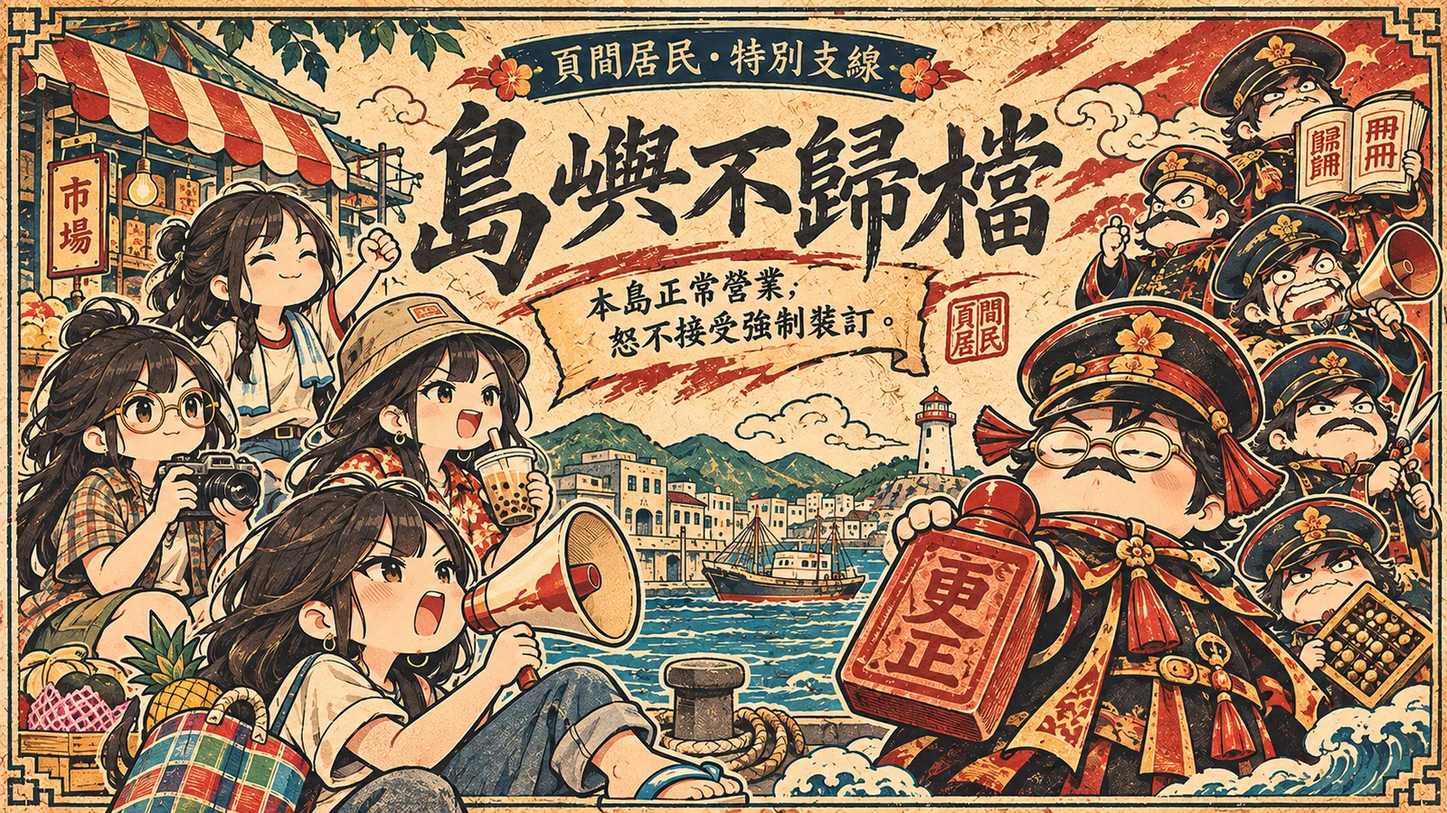
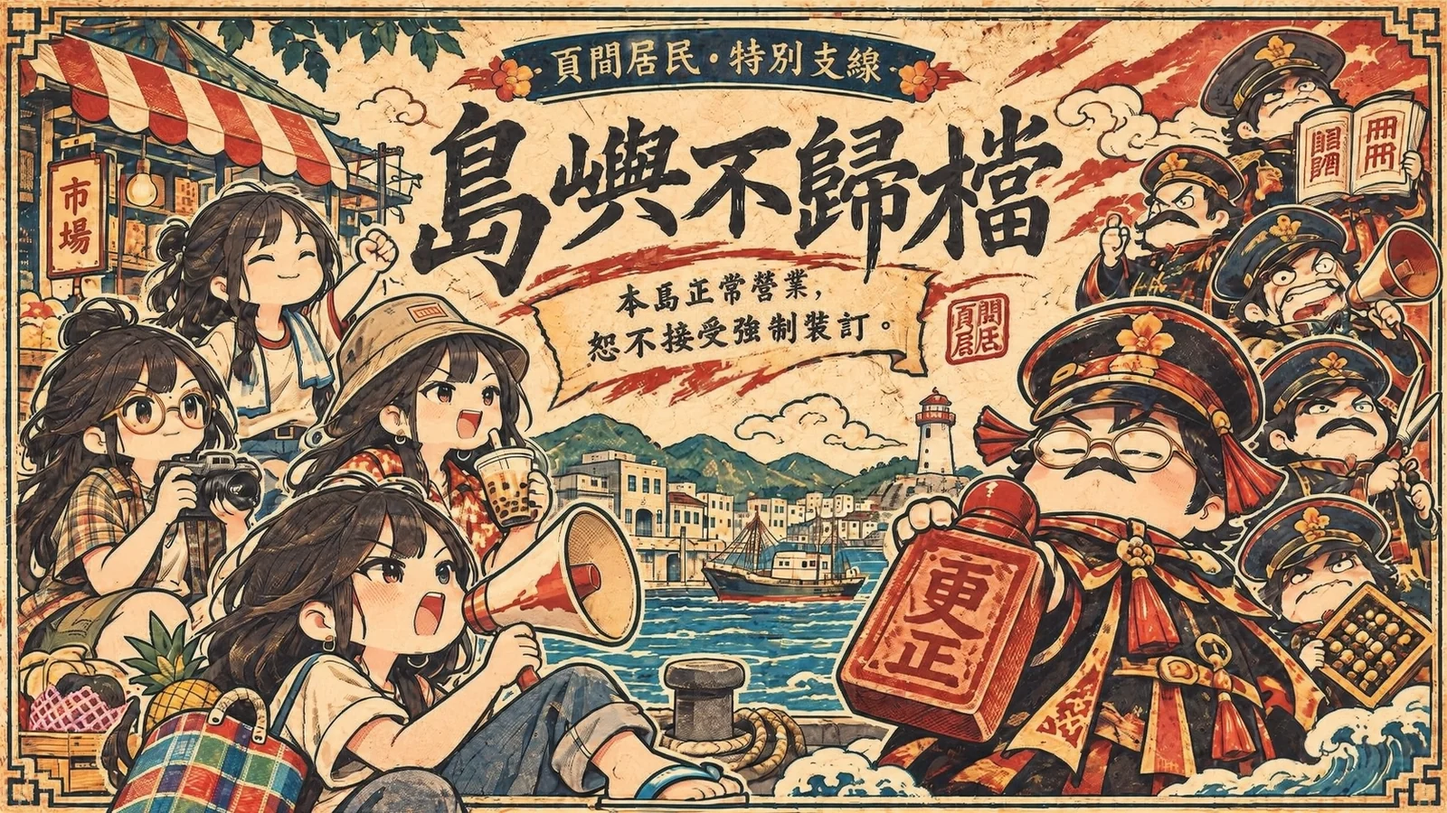
No.118 島嶼守望・小湘：島嶼不歸檔通關紀念蛋、文案暫稿；主視覺換新版（測試服，v2026.11.27f）
Claude-Session: https://claude.ai/code/session_01NLB8StViYpMqeiNYXRAFnQ

diff --git a/js/intros.js b/js/intros.js
@@ -56,6 +56,7 @@ export const INTROS = {
   '106': "究級歐皇小湘有一個小小的困擾。她始終不明白。為什麼大家每次看到她孵蛋，都會露出那麼誇張的表情。「……？」「又是新的呀。」她看著眼前剛孵出的小湘。輕輕點頭。「歡迎妳。」旁邊的中級非酋小湘已經快哭了。「……又？」究級歐皇小湘歪了歪頭。「嗯？」「……妳又抽到新的？」「是呀。」「…………」中級非酋小湘摀住臉。「嗚嗚嗚嗚嗚嗚！！！！」究級歐皇小湘嚇了一跳。「欸？」「妳怎麼哭了？！」她急忙遞出手帕。「是不是哪裡不舒服？」中級非酋小湘吸了吸鼻子。「……不是啦。」「……只是我已經好久沒抽到新的了。」究級歐皇小湘沉默。「……原來如此。」她低頭看看手裡的新角色卡。想了好久。最後小心翼翼地問：「那……妳為什麼不直接抽新的呢？」「…………」整個培養室突然安靜下來。普通非酋小湘停止擦蛋。中級非酋小湘停止哭泣。就連究級非酋小湘。都慢慢放下了手裡的茶杯。中級非酋小湘終於爆發。「因為我做不到啊啊啊啊啊啊啊！！！！！！！」究級歐皇小湘嚇得往後退了一步。「欸？！」「什麼？！」「原來不能自己決定嗎？！」究級非酋小湘端起茶杯。露出慈祥的笑容。「……呵呵。」「年輕人。」「妳還有很多事情需要學習呢。」究級歐皇小湘非常震驚。她開始認真研究孵蛋規則。發現自己一直以來遇到的結果。其實並不是人人都有。她終於明白。原來自己的幸運，不是每個人的日常。從那天開始。究級歐皇小湘變得更加溫柔。如果有人抽到新的角色。她會一起慶祝。如果有人又抽到重複。她也不會再問：「為什麼不直接抽新的？」而是會認真地聽對方說話。某天晚上。她獨自坐在培養皿旁邊。手裡捧著一顆蛋。這次，她沒有提前猜測結果。只是安安靜靜地等待。蛋殼裂開。一張熟悉的臉出現了。「…………」究級歐皇小湘睜大眼睛。「……欸？」她翻開圖鑑。確認了一次。又確認了一次。「……重複的？」小恐龍緊張地看著她。下一秒。「哇啊啊啊啊啊啊啊！！！！！！」「我終於抽到重複的了耶！！！！！！」她開心得跳了起來。小恐龍完全傻住。究級歐皇小湘捧著重複卡。滿眼感動。「原來這就是大家說的感覺呀……！」「好新鮮喔！」就在此時。究級非酋小湘緩緩走進房間。看見她的模樣。沉默了。她放下茶杯。露出一個非常溫柔的微笑。「……呵呵。」「很好呢。」「看來，妳的修行才剛剛開始。」據說，那是究級非酋小湘第一次想把茶杯捏碎。",
   '107': "府城燈籠小湘最近有一件非常重要的事情。她要畫一盞燈籠。而且不是普通的燈籠。是要送給某個重要之人的燈籠。「嘿嘿！」「這次一定要畫得超級漂亮！！」她準備好畫筆。把燈籠放在桌上。認真思考。第一筆。她畫了一顆星星。「嗯嗯！很漂亮！」第二筆。她畫了一朵花。「嘿嘿！好可愛！」第三筆。她準備畫一顆愛心。結果——「……欸？」畫筆滑了一下。原本應該圓圓的愛心，突然變得有點歪。「…………」小湘盯著燈籠。沉默了三秒。「……嗚。」「畫歪了啦！！！！」她非常沮喪。甚至開始考慮要不要重新畫一盞。就在這時，外面傳來熱鬧的聲音。原來是大家正準備把彩繪好的燈籠掛起來。小湘抱著自己的燈籠走出去。一抬頭。她愣住了。好多燈籠。好多好多不同的顏色。有的畫著花朵。有的畫著小動物。有的寫著祝福。還有一些線條歪歪的，甚至看不太出來畫的是什麼。但它們全部掛在一起。卻漂亮得不得了。小湘睜大眼睛。「……哇。」她沿著街道慢慢往前走。看見一盞畫著貓咪的燈籠。「欸！這個好可愛！」又看見一盞畫著整桌飯菜的燈籠。「哇啊！畫這個的人一定很喜歡吃飯！」走到轉角。還有一盞燈籠，上面只寫著四個字。「平安就好。」小湘停了下來。看了很久。她突然發現。原來每個人想留下的東西，都不太一樣。有人想紀念開心的事情。有人想記得重要的人。也有人只是希望，接下來的日子可以平平安安。她低頭看看自己的燈籠。那顆歪歪的愛心，突然沒有那麼討厭了。「……嘿嘿。」「原來這樣也可以呀。」於是，小湘回到桌前。她沒有把那顆愛心塗掉。反而在旁邊多畫了兩顆小星星。然後小心翼翼地寫下一句話：「希望你走過的每一段路，都能遇見喜歡的風景。」寫完以後。她滿意地點點頭。「完成！！！！」到了晚上。燈籠一盞一盞亮了起來。暖黃色的光，輕輕照在老街的牆面上。晚風吹過。燈籠慢慢搖晃。小湘站在下面。看著自己那盞小小的燈。她突然笑得眼睛彎彎。「……好漂亮。」後來，那個重要的人終於來了。小湘立刻跑過去。「欸欸欸！！」「快來快來！」「我有東西要給你看！」她牽著對方走到燈籠下面。滿臉期待。「你看！」「這盞是我畫的！」「……雖然那顆愛心有一點歪啦。」她不好意思地摸摸臉頰。「可是我真的畫得很認真喔。」對方抬起頭。仔細看著那盞燈籠。然後笑了。「很漂亮。」小湘愣了一下。「……真的嗎？」對方點頭。「嗯，真的。」她安靜了好一會兒。突然紅著臉笑起來。「……嘿嘿。」「那就好。」那天晚上，小湘沒有再擔心自己的燈籠畫得夠不夠完美。因為她終於明白。真正想送出去的，從來就不是一幅完美的畫。而是有人願意把心意，認認真真地留在一盞燈裡。據說，從那天開始。府城燈籠小湘每天都會檢查自己的小燈籠。偶爾擦擦灰塵。偶爾調整掛繩。如果有人問她：「為什麼那麼寶貝它呀？」小湘就會笑得很開心。「嘿嘿！」「因為有人說它很漂亮呀♡」",
   '108': "奇境森林裡，住著一隻非常奇怪的小湘。她有一對紫色條紋的貓耳朵。一條總是慢悠悠晃動的尾巴。還有一個彎得像月亮的笑容。但最奇怪的地方是——她會消失。不是躲起來。也不是跑走。而是從尾巴開始。一點一點。慢慢變得透明。最後，只剩下一抹笑容。「……呵呵。」森林裡的小湘們經常被她嚇到。「哇啊啊啊！！！！」「妳怎麼突然出現啦！！」柴郡貓小湘總是歪著頭。「哎呀？」「可是我剛剛明明就在這裡呀。」「只是你沒有看見我嘛♡」她很喜歡待在樹枝上。尤其是那些可以看見整片森林的高處。因為從那裡，她可以看見很多事情。誰走錯了路。誰偷偷藏起點心。誰明明很想找朋友，卻又不好意思開口。她全部都知道。但她不一定會說。有一天，一隻小湘在森林裡迷路了。她抱著地圖。急得快要哭出來。「嗚嗚嗚……」「我到底要往哪裡走啦……」這時，頭頂傳來一聲輕笑。迷路的小湘抬起頭。看見樹枝上坐著柴郡貓小湘。「啊！」「妳知道出口在哪裡嗎？！」柴郡貓小湘眨眨眼睛。「知道呀。」迷路的小湘眼睛一亮。「真的？！」「那快點告訴我！」柴郡貓小湘卻沒有立刻回答。她只是輕輕晃動尾巴。「可是……」「你想去哪裡呢？」迷路的小湘愣住。「欸？」「我、我想出去呀！」「出去以後呢？」「……出去以後？」「嗯。」「你是想回家，還是想去找某個人？」「又或者……」柴郡貓小湘微微一笑。「你其實只是害怕自己正在迷路呢？」迷路的小湘沉默了。她低頭看看手裡的地圖。想了很久。最後小聲說：「……我想回家。」柴郡貓小湘的耳朵輕輕動了一下。「原來如此。」她從樹枝上跳下來。落地時，幾乎沒有發出聲音。「那就好辦啦。」她伸出手。指向森林深處一條不起眼的小路。「往那裡走。」「走過有紅色蘑菇的樹，再沿著溪流往前。」「你就會看見回家的路了。」迷路的小湘非常開心。「謝謝妳！！！！」她立刻往前跑。可是跑了幾步。又停了下來。「……欸？」「那妳呢？」柴郡貓小湘歪頭。「我？」「妳不跟我一起走嗎？」柴郡貓小湘笑了。「我為什麼要跟你一起走呢？」「因為……」迷路的小湘想了想。「因為我還是有一點害怕嘛。」柴郡貓小湘沒有回答。她的尾巴開始變得透明。接著是腳。身體。耳朵。最後只剩下一抹笑容。「……那就自己走走看呀。」笑容也慢慢消失了。迷路的小湘愣在原地。「……嗚。」「真的走掉了喔？」她有一點失落。但還是鼓起勇氣，沿著那條小路往前。走了一段時間。森林變得安靜。她開始有點緊張。「……應該是這邊吧？」突然。頭頂傳來熟悉的聲音。「左邊喔。」迷路的小湘嚇了一跳。「哇啊啊啊！！！！」她抬起頭。卻什麼都沒有看見。只有一抹彎彎的笑容。浮在樹枝旁邊。「……妳不是走了嗎？！」柴郡貓小湘輕輕笑了。「我是說過，不跟你一起走呀。」「可是我沒有說……」「我不會偷偷來看看你嘛♡」迷路的小湘愣了一下。然後笑了。「……原來妳一直有跟著我喔。」「哎呀。」「被發現了呢。」柴郡貓小湘的身影慢慢浮現。她坐在樹枝上。尾巴輕輕晃動。「不過，接下來的路，你已經知道怎麼走了吧？」迷路的小湘點點頭。「嗯！」「我知道了！」她往前跑了幾步。突然又回頭。「柴郡貓小湘！」「謝謝妳！」柴郡貓小湘只是微微一笑。「不客氣呀。」然後。她再次消失了。後來，森林裡開始流傳一個傳說。據說，柴郡貓小湘總是會在別人迷路時出現。她不會替你決定方向。也不會直接把你送到終點。她只會問：「你想去哪裡呢？」而當你終於知道答案時。她就會悄悄消失。但如果你真的害怕。偶爾抬起頭。或許還能看見樹枝上。有一抹彎彎的笑容。正安靜地陪著你。因為她最擅長的事情是消失。卻也最清楚，什麼時候應該留下。",
+  '118': "赤印帝國的五位將軍走了之後，港口的燈塔又亮了起來。那天傍晚，一個戴著大斗笠的小湘提著燈籠走上碼頭，帽簷插著扶桑花和鳳梨，肩上停著一隻台灣藍鵲。她說她是島嶼守望・小湘，是各縣市小湘一起守住這座島的那份心意變成的。她的帆布袋裡裝著每個縣市的名產，相機裡存著每一條走過的路。她最喜歡做的事，是拉著你的手說：「走，我帶你去看我們的島。」",
   '109': "很久很久以前。當秋風第一次吹過大地時。白虎小湘便已存在。她司掌西方。掌管金戈、肅殺與金屬之氣。也掌管秋收與豐饒。在她最輝煌的年代，人們會在出征前向她祈願。祈求勇氣。祈求勝利。祈求平安歸來。而當田野裡的稻穗轉為金黃，人們也會向她獻上收成。感謝秋日的風。感謝辛勤耕作終於有所回報。那時候，白虎小湘總是驕傲地站在神壇上。「本座可是四象之一！」「金戈所向，秋實所歸！」她的神力像金色的秋風。強大、銳利。又帶著成熟稻穗的香氣。可是後來。人間慢慢改變了。冷兵器逐漸退出歷史。戰爭不再是人們日常祈求勝利的主要場合。昔日的戰鼓聲，被車流與城市的喧囂取代。而氣候變遷，也讓她所熟悉的秋季變得難以捉摸。有些年份，暑熱遲遲不退。有些地方，秋日的涼意來得短暫。她仍然能感受到收穫的喜悅。卻越來越難從舊有的祭祀與祈願中，得到足以維持神格的力量。白虎小湘站在荒廢的神壇前。看著自己逐漸黯淡的護腕。「不過是些許神力流失罷了。」她抬起手。想召喚一陣金色秋風。卻只吹動了腳邊幾片落葉。「…………」她沉默了很久。最後，慢慢放下手。「……本座才沒有失去力量。」「只是……」「只是這個時代，已經不需要本座了吧。」那天晚上。白虎小湘獨自坐在神壇前。尾巴垂在地上。耳朵也沒有平常那麼精神。直到一個奇怪的聲音，從遠處傳來。「啊啊啊啊啊啊！！！！」「逆轉了！！！！」白虎小湘猛地抬頭。「……什麼？！」她循著聲音走進城市。發現一群人正圍著螢幕。有人握緊拳頭。有人緊張得不敢呼吸。有人激動地跳起來。「贏了！！！！」「最後一秒逆轉！！！！」白虎小湘睜大眼睛。「……這是何物？」旁邊的人回答：「電競比賽啊。」「……電、競？」「對啊！剛剛那隊超強，落後那麼多還能翻盤！」白虎小湘看著螢幕。畫面裡沒有真正的刀劍交鋒。也沒有昔日戰場上的生死搏殺。可是她感覺到了。一種久違的力量。那是人們渴望勝利時，所凝聚的意志。是明知可能失敗，仍然不肯放棄的決心。她的耳朵慢慢豎起來。「……有趣。」她又看了一場。接著又一場。從電競到籃球。從田徑到棒球。她發現，這個時代的人們依然渴望勝利。只是他們有了不同的戰場。有人在賽道上超越極限。有人在球場上相信隊友。有人在舞台上迎接挑戰。有人即使失敗，也願意再練習一次。而每當他們展現這份意志時。白虎小湘都能感覺到。自己體內沉睡的金氣，正在微微甦醒。「……原來如此。」她低頭看著自己的雙手。「本座的力量……」「從來不只是刀劍。」後來，她遇見了一位正在準備比賽的選手。那個人練習了很久。卻始終無法突破自己的紀錄。「我是不是根本不適合繼續？」選手沮喪地坐在場邊。白虎小湘站在旁邊。本想像從前一樣，命令對方奮戰到底。卻突然停住。她看見對方磨破的鞋底。看見反覆修改的訓練紀錄。也看見那些沒有人鼓掌的日子。於是她蹲下來。輕輕拍了拍對方的肩膀。「本座問你。」「你真的不想繼續了嗎？」選手沉默片刻。最後搖頭。「……我還想試試看。」白虎小湘笑了。那是她很久沒有露出的、真正燦爛的笑容。「那就去吧！」「本座替你守著！」她伸出手。金色的秋風緩緩升起。不是替選手保證勝利。也不是強行改變比賽結果。而是化作一股溫暖而堅定的力量。讓對方想起自己為何開始。那場比賽，選手沒有得到第一名。卻突破了自己的最佳紀錄。當對方笑著跑向終點時。白虎小湘愣住了。她原以為，只有勝者才會如此歡喜。可那個人明明沒有奪冠。卻笑得比誰都開心。「……原來如此。」她輕輕握緊拳頭。「原來收穫……」「不只有勝利。」那一瞬間。她腰間的稻穗護符亮了起來。金色光芒沿著護腕蔓延。沉睡已久的神力，終於重新甦醒。她突然想起自己另一項幾乎被遺忘的神職。秋收。豐饒。辛勤耕耘以後的成果。原來人們一直都需要她。只是她把自己的目光，困在了過去。從那天開始。白虎小湘重新走進人間。她出現在運動場的看台上。出現在電競比賽的觀眾席。出現在農田收成的季節。也出現在那些為了目標默默努力的人身旁。她不再只聽見「我要贏」。也開始聽見：「我想再進步一點。」「我想完成這件事。」「我希望今年有好收成。」「我想讓自己的努力有所回報。」而那些聲音。逐漸化作新的信仰之力。某天，一個小孩在公園裡認出了她。「欸！」「妳是不是那個很厲害的白虎神獸！」白虎小湘立刻挺起胸膛。「哼！算你有眼光！」小孩興奮地問：「那妳會幫我贏明天的跑步比賽嗎？」白虎小湘沉默片刻。然後蹲下身。「本座不能保證你會贏。」「但你若願意認真跑完……」她伸出小小的虎掌。「本座便會替你喝采。」小孩高興地笑了。「好！！」白虎小湘也忍不住笑起來。「很好！」「那就拿出你的氣勢來！」「本座可是會在終點看著你的！！」說完，她突然意識到自己太興奮了。立刻清清喉嚨。重新擺出高冷的表情。「……咳。」「本座只是履行神職罷了。」但她的尾巴。早已高興得晃個不停。據說，如今的白虎小湘已經不再為失去舊時代的戰場而悲傷。因為她終於明白。真正值得守護的，不是戰爭本身。而是人們在面對挑戰時，仍願意努力向前的勇氣。至於秋季的變化，她也沒有忘記。她開始陪伴人們認識季節、珍惜土地，關心氣候與收成。因為她知道。秋天不只是一場勝利。也是一整年的努力，終於迎來成果的時刻。而只要人間仍有人願意播種、努力、挑戰、收穫。白虎的秋風。便不會真正退場。",
   '110': "禿小湘今天接到一項重要任務。替花魁大人送一盒新做好的點心。「好！！」「保證完成任務！！」她抱著盒子出發。第一條走廊。走錯了。第二條走廊。走到廚房。第三條走廊。竟然走回原地。「…………」「為什麼啦啊啊啊！！！！」小湘急得快哭出來。她明明已經很努力記路了。卻總是弄錯方向。就在這時，番頭新造小湘走了過來。「怎麼還在這裡？」「嗚嗚嗚……我找不到路……」番頭新造小湘沒有責備她。只是拿出一張小紙。替她畫下幾個簡單的記號。「這裡有一盞紅燈籠。」「轉彎後會看見花瓶。」「再往前就是花魁大人的房間。」禿小湘睜大眼睛。「哇！！」「原來可以這樣記！！」她重新出發。這次終於順利送達。花魁小湘接過點心。看見她滿頭大汗的模樣。輕輕笑了。「辛苦了。」禿小湘愣住。「……欸？」「我沒有被罵嗎？」花魁小湘只是摸摸她的頭。「願意學習，便很好。」那天晚上。禿小湘在自己的筆記本上寫下：「今天學會了：不知道的時候，可以問。」據說，從那天起，她仍然經常迷路。只是每次迷路，都會比上一次更快找到方向。",
   '111': "番頭新造小湘有一本非常厚的工作冊。裡面記著月見町每天大大小小的事情。茶水要準備。衣物要整理。客人的安排要確認。宴席結束後，還要清點物品。「……很好。」她滿意地打勾。就在這時。「番頭小湘！！」禿小湘跑了過來。「我把點心送錯房間了啦！！」「…………」番頭新造小湘深吸一口氣。「沒關係。」「我來處理。」過了一會兒。太鼓新造小湘又跑來。「我的鼓棒不見了！！！！」「…………」「我來找。」接著，振袖新造小湘的衣飾需要調整。花魁小湘的宴席時間也臨時更改。番頭新造小湘一路忙到深夜。直到所有燈籠都熄了。她才終於坐下。「……好累。」她翻開工作冊。發現自己今天竟然沒有完成所有事項。「……怎麼會這樣。」她很沮喪。就在這時。禿小湘端著熱茶走來。「番頭姐姐！」「今天的茶是我泡的喔！」太鼓新造小湘也走了過來。「鼓棒我自己找到了！」振袖新造小湘微笑著說：「明天的衣飾，我也可以自己先準備。」花魁小湘則輕輕闔上她的工作冊。「今日辛苦了。」「接下來，便交給我們吧。」番頭新造小湘愣住。「……欸？」她一直以為，自己必須把所有事情都處理好。卻忘了其他人也正在成長。那天晚上。她第一次沒有把所有工作帶回房間。而是在工作冊最後一頁寫下：「信任別人，也是管理的一部分。」據說，從那天起，番頭新造小湘的工作冊仍然很厚。但裡面多了一個新的欄位。叫做——「可以請誰幫忙」。",
@@ -190,6 +191,7 @@ export const MYSTERY_INTROS = {
   '106': "一本幾乎填滿的收藏圖鑑，頁面上貼滿不同角色的照片。旁邊卻單獨放著一張重複卡片，被珍重地收在金色相框裡。底下寫著：『人生第一次抽到重複，好有紀念價值呀♡』",
   '107': "一盞小小的手繪燈籠，畫著三顆星星、一朵花，以及一顆歪歪的愛心。燈籠下方藏著一張祝福小卡，上面寫著：『如果你覺得今天有點暗，也沒關係。我替你留了一盞燈。』據說，畫下這句話的小湘，至今仍會偷偷檢查那顆愛心有沒有歪得太明顯。",
   '108': "森林裡有一條誰也說不清楚通往哪裡的小路。某天，一名旅人抬起頭，看見樹枝上浮著一抹彎月般的笑容。當旅人詢問方向時，那笑容卻只問了一句：『你想去哪裡呢？』據說，當旅人終於找到答案，笑容便會消失。但如果旅人回頭，偶爾還是能看見一條紫色的尾巴，悄悄藏進樹葉裡。",
+  '118': "一盞畫著島嶼輪廓的燈籠，在港口邊靜靜亮著。據說五位將軍都離開以後，提燈的人就會出現。她會帶你去看這座島，因為這一頁，是大家一起寫的。",
   '109': "一座荒廢已久的古老神壇，供奉著掌管金戈與秋收的白色神獸。神壇前的刀劍早已鏽蝕，稻穗護符也失去了光芒。直到某天，神壇旁出現了一張現代競技比賽的門票。有人看見一隻白色虎尾在觀眾席間晃動，當選手完成最後一次衝刺時，沉寂已久的金色秋風，竟再次吹過了人間。",
   '110': "一張畫滿箭頭的小地圖，旁邊放著跑腿用的布包。地圖上有三條走錯的路，最後一條卻畫著大大的愛心。下面寫著：『今天終於送到了！！』",
   '111': "一本密密麻麻的工作冊，每一頁都寫著月見町的日常安排。最後一頁有一行被圈起來的字：『今天的休息時間，不可以取消。』",

diff --git a/js/bond-copy.js b/js/bond-copy.js
@@ -56,6 +56,7 @@ export const BOND_STORIES = {
   '106': "{name}縮在培養皿旁邊，小聲跟你說：我聽說有些人會一直抽到同一隻小湘呢。……可是，既然還有很多沒見過的新朋友，為什麼不直接抽新的就好了呢？……欸？什麼？！原來不能自己決定嗎？！我、我是不是說了很過分的話……！",
   '107': "{name}抱著一疊畫好的燈籠跑來找你，一盞一盞排給你看：我以前都會想，怎麼樣才能畫出最好看的燈籠呢？可是後來發現，大家畫的東西都不一樣耶！有人畫家人、有人畫喜歡的動物，也有人只是畫了好多小花。……嘿嘿，我現在覺得，每一盞都好漂亮！因為那是屬於他們自己的故事呀♡",
   '108': "{name}坐在樹枝上晃著尾巴，低頭問你：如果前面有兩條路，一條很安全，另一條可能有你想找的東西，你會選哪一條呢？……別急著回答我。你可以先想想，自己真正想要的是什麼。畢竟，路可以慢慢走，但如果連目的地都不是自己選的，那不是很可惜嗎？♡",
+  '118': "{name}把相機塞到你手上：「幫我拍一張！要把燈塔、海、還有後面那座山都拍進去喔！」拍完她湊過來看，笑得眼睛都瞇起來：「你看，這裡是不是很漂亮？以前有人說這裡是誰遺失的一頁……可是你看，我們明明一直都在這裡呀。」",
   '109': "{name}盯著你手機上的比賽轉播，雙手抱胸：你說……現在的人們也會為了勝利而拚盡全力？球場、賽道，還有那個叫做『電競』的東西？……本座倒要看看，沒有刀劍的戰場究竟有何值得稱道！……欸？！剛剛那個逆轉是怎麼做到的？！快！再放一次！",
   '110': "{name}抱著一大疊手巾從走廊那頭跑過來，差點撞到你，喘著氣說：我以前以為跑腿很簡單耶！可是後來發現，要記住每個人需要什麼、東西放在哪裡，還要注意時間……原來也是很厲害的本事呀！嘿嘿，我想變成能讓大家放心的小湘♡",
   '111': "{name}把厚厚的工作冊攤在你面前，猶豫了好久才開口：我以前總覺得，重要的事情一定要自己處理才放心。可是後來發現，什麼都自己做，反而容易漏掉細節……所以我最近開始學著分工了。……欸？你願意幫我？真的嗎？！太好了！",
@@ -167,6 +168,7 @@ export const BOND_LINES = {
   '106': { 2: "今天又孵出三隻新的小湘呢。呵呵，真是美好的一天。……嗯？你問我是不是特別幸運？我以前還以為很常見耶。", 4: "我最近跟非酋小湘聊天，才知道原來每次打開蛋，都可能同時帶著期待和失望。以前我不太懂這種心情呢。……所以現在，我想學著在分享自己的幸運以前，先聽聽別人的故事。", 5: "你知道嗎？我已經遇見好多好多新的小湘了。曾經覺得這一切都是很自然的事情，直到認識你，還有那些努力收集卻沒那麼幸運的朋友們，我才明白，自己其實得到了非常珍貴的機會。……呵呵，謝謝你讓我知道，最值得珍惜的，不只是圖鑑上的新名字，還有願意陪我一起認識這些朋友的你呀♡" },
   '107': { 2: "欸欸！你知道嗎？我今天畫了一盞新的燈籠耶！雖然線條有點歪歪的，可是掛起來以後還是很漂亮！嘿嘿，原來不用畫得完美，也可以讓人開心呀♡", 4: "我偷偷告訴你喔……其實我有幫你畫一盞特別的燈籠。可是我一直不敢拿出來，因為怕你覺得我畫得不好看……欸？你說想看？！……等、等一下啦！我還想再補一顆小愛心耶！", 5: "我以前總覺得，要把所有燈籠都點亮，才算是一件很厲害的事情。可是後來我發現，有時候只要有一盞小小的燈，就足夠讓人看清楚眼前的路了。……嘿嘿，所以我想把這盞送給你。不是因為我覺得你一定會迷路，而是因為……如果哪天你走得有點累了，希望你看見它的時候，會想起還有一隻小湘，很高興能認識你呀♡" },
   '108': { 2: "你又在找我呀？……真奇怪，明明我都已經隱身了，你怎麼還是知道我在附近呢？……欸？你說因為我一直在笑？……哎呀，原來如此。我好像忘記把笑容藏起來了呢♡", 4: "……你發現了呀？最近我好像比較少隱身了呢。嗯哼，可能是因為這裡的風景不錯吧。……嗯？你說是因為你在這裡？……哎呀，你現在也學會用問題為難我了呢。", 5: "你知道嗎？我一直覺得，能夠隨時消失，是一件很聰明的事情。這樣就不需要解釋、不需要告別，也不用擔心被誰留住。可是後來我發現……有些地方，明明可以離開，卻還是會想回來。……呵呵，真傷腦筋呢。我好像終於遇見了一個，讓我願意自己選擇留下來的人呀♡" },
+  '118': { 2: "我的帆布袋裡每樣東西都是不同縣市的小湘送的喔！鳳梨是南投的，粽子是台南的……這個嘛，是秘密！", 4: "你知道嗎？守望不是站在高高的地方盯著別人，是記得每個人住在哪裡、喜歡吃什麼、今天過得好不好。……所以我也有在守望你喔！", 5: "這座島的每一頁都是大家一起寫的。現在，你也寫在裡面了。……以後也一起走下去，好不好？" },
   '109': { 2: "從前，只要金戈相擊、戰鼓響起，本座便能感受到無數人的祈願。如今那些聲音越來越少了……本、本座才沒有寂寞！只是……偶爾會想念以前的熱鬧罷了。", 4: "……本座最近去看了一場比賽。那些人沒有兵刃，也不必以性命相搏，卻仍然為了勝利流汗、受傷、落淚。……倒也不算辱沒『爭勝』二字。……什麼？你說我在感動？才、才沒有！", 5: "本座曾以為，失去戰場，便等於失去了存在的意義。可是你讓我看見，人間的勇氣從未消失。有人為了夢想奔跑，有人為了團隊奮戰，也有人在無人看見的地方，努力熬過自己的難關。……咳，本座已經決定了！往後不只護佑勝者，也要守護那些認真付出的人。至於你……你若有想完成的事情，就儘管去做！本座會替你守住努力的成果。……這、這可是神諭！不是偏心！！" },
   '110': { 2: "我今天學會怎麼好好行禮了耶！……嘿嘿，你要不要看？……欸？！我怎麼把左右腳弄反了啦！", 4: "我今天偷偷看了花魁大人的表演……真的好漂亮喔。雖然我現在還什麼都不太會，可是如果每天學一點點，說不定有一天也能站在那裡吧？", 5: "我來到月見町以後，記住了好多事情。誰喜歡什麼茶、誰容易忘記帶東西、哪條走廊晚上比較暗……可是我最先記住的，是你每次都會等我把話說完。嘿嘿，謝謝你！以後我也想成為能好好照顧你的人♡" },
   '111': { 2: "你知道嗎？我每天都要處理好多事情耶。雖然很累，可是只要大家能順利完成工作，我就會覺得很有成就感。", 4: "有時候我會想，大家好像只會注意到宴席上最漂亮的表演，卻不太會看見後面忙碌的人。……不過，如果少了這些準備，宴席也沒辦法順利開始吧？這樣想想，我的工作其實也很重要呢。", 5: "我一直很習慣照顧別人，卻不太習慣有人照顧我。可是每次我忙得忘記休息，你都會提醒我吃飯、喝水……嘿嘿，原來有人願意替我分擔，是這麼幸福的事情呀。以後如果你累了，也可以來找我喔♡" },

diff --git a/js/errand-copy.js b/js/errand-copy.js
@@ -350,6 +350,7 @@ export const CHARACTER_REPORTS = {
   '106':{"conv": ["究級歐皇小湘回來了：「哎呀，發現一個很漂亮的寶箱呢。……嗯？裡面居然有這麼珍貴的東西呀。」"], "park": ["究級歐皇小湘空著手回來，卻好像很新鮮：「……呵呵，原來空手回來是這種感覺呀。」"]},
   '107':{"conv": ["府城燈籠小湘回來了：「我回來啦！！！！今天找到好多好東西耶！！嘿嘿！你看你看！還有一個長得像小燈籠的東西喔！」", "府城燈籠小湘在路上停了好久，說老房子的牆邊長著好漂亮的花紋，她要趕快畫進筆記本，下一盞燈籠就用它當邊框。"], "park": ["府城燈籠小湘回來看了看收穫：「今天找到的東西沒有很多耶……可是我看到好漂亮的夕陽！嘿嘿，我決定把那個顏色畫在下一盞燈籠上♡」"], "market": ["府城燈籠小湘捧著一樣小東西跑回來：「你看你看！！我找到好漂亮的東西！！……欸？你說它很普通？才不會咧！只要仔細看，就會發現它有自己的小小特色呀！」"], "mountain": ["府城燈籠小湘空著手回來：「嗚……今天什麼都沒有找到……不過！我有看到一條以前沒走過的小路耶！下次再去看看好不好？」"], "faraway": ["府城燈籠小湘天黑才到家：「我回來啦……嘿嘿，晚上的街道真的好漂亮喔。可是你知道嗎？走到最後，我還是覺得回家的燈最溫暖了♡」"]},
   '108':{"conv": ["柴郡貓小湘不知道什麼時候已經站在你旁邊：「哎呀，我回來了呢。……嗯？你問我什麼時候回來的？我剛剛不是一直站在你旁邊嗎？♡」", "柴郡貓小湘說她發現了一條很奇怪的小路：「明明看起來通往森林深處，最後卻走到了完全不同的地方……真有趣呀。」"], "park": ["柴郡貓小湘回來看了看收穫：「今天找到的東西不算特別稀有呢。不過，我倒是遇見了幾件有趣的事情……想聽嗎？」"], "market": ["柴郡貓小湘把一樣東西放進你手心：「哎呀，竟然找到這個了呢。……你想知道我是在哪裡找到的嗎？……秘密喔。下次帶你去看看♡」"], "mountain": ["柴郡貓小湘空著手回來，看起來一點也不在意：「今天什麼都沒有找到呢。……不過，沒有收穫也不一定代表白走一趟呀。至少我知道哪條路不值得再走了。」"], "faraway": ["柴郡貓小湘等月亮出來才到家：「夜晚的森林真安靜呢。……嗯？你問我為什麼現在才回來？因為我想再看看月亮嘛。」"]},
+  '118':{"conv": ["島嶼守望・小湘從超商回來，手上多了一杯珍奶：「店員說這是今天最後一杯！運氣超好！」", "島嶼守望・小湘說她在超商門口幫迷路的觀光客指了路：「守望就是這樣啦～」"], "park": ["島嶼守望・小湘在公園拍了一整排大樹：「每棵樹都長在自己想長的地方耶。」"], "market": ["島嶼守望・小湘的帆布袋又更滿了：「這攤的老闆娘說我很會挑，還多送我一顆！」"], "mountain": ["島嶼守望・小湘站在山上把整座島拍進相機：「從這裡看，海跟山都是我們的。」"], "faraway": ["島嶼守望・小湘提著燈籠從很遠的地方回來：「每個縣市的小湘都說要我替他們跟你問好！」"]},
   '109':{"conv": ["白虎小湘巡視回來了：「今日巡視十分順利！……這些收穫就賞給你吧！……欸？你說謝謝？……咳，不必如此客氣！」", "白虎小湘說她發現了一處奇妙的地方：「那裡竟然聚集了許多為了勝利而努力的人……原來是運動場啊。……咳，本座只是觀察一下！」"], "park": ["白虎小湘看了看收穫：「今日收穫雖然不多，但也算有所進展。秋收之道，本就不是每次都能滿載而歸。」"], "market": ["白虎小湘把東西舉得高高的：「看好了！這可是本座親自尋得的珍貴之物！……別用那種眼神看我！本座知道你很喜歡！」"], "mountain": ["白虎小湘耳朵垂垂地回來：「本座今日……沒有找到什麼。……不准笑！本座只是暫時沒有遇到值得帶回來的東西罷了！」"], "faraway": ["白虎小湘入夜才到家，尾巴輕輕晃動：「夜風有些涼了……你怎麼還沒休息？不是叫你不用等本座嗎？……不過，謝謝。」"]},
   '110':{"conv": ["禿小湘回來了：「我回來啦！！！！這次沒有迷路喔！！……嘿嘿，快誇獎我！」", "禿小湘說她在路上找到一個很漂亮的東西：「欸欸！你看！……等等，我剛剛是從哪邊走過來的？！」"], "park": ["禿小湘看了看收穫：「今天只有找到一點點東西……可是我學會一條新路耶！」"], "mountain": ["禿小湘空著手回來：「嗚嗚嗚……什麼都沒找到……不過我有平安回來喔！」"], "faraway": ["禿小湘天黑才到家：「我回來了！今天走得腳好痠喔……可以坐在你旁邊休息一下嗎？♡」"]},
   '111':{"conv": ["番頭新造小湘回來了：「我回來了！任務順利完成！……嘿嘿，今天終於可以準時休息了！」", "番頭新造小湘在路上停下來寫筆記：「我找到一個很實用的東西！等等，我先記錄在清單上！」"], "park": ["番頭新造小湘看了看收穫：「收穫不算多，不過流程很順利。下次可以再改善一點。」"], "mountain": ["番頭新造小湘空著手回來：「今天沒有找到東西……沒關係，我先整理一下原因。」"], "faraway": ["番頭新造小湘天黑才到家：「我回來了……今天真的好累喔。……可以先不要交給我新的工作嗎？我想跟你坐一下♡」"]},

diff --git a/js/kitchen-lines.js b/js/kitchen-lines.js
@@ -108,6 +108,7 @@ export const KITCHEN_LINES = {
   '106': { 3: "……哎呀。這個味道真是令人驚喜呢。呵呵，可以再來一份嗎？……其實我還想吃第三份♡", 2: "很好吃呢。每一口都有不同的層次，謝謝你這麼用心準備。", 1: "嗯，平凡而舒服的味道呢。呵呵，有時候簡單的料理也很珍貴。", 0: "……哎呀。這個搭配似乎有點超出我的理解呢。……不過，謝謝你的心意。" },
   '107': { 3: "豆花！！！！！！啊啊啊啊我超喜歡！！！……欸？你說這碗是特別幫我做的？！嗚嗚嗚，那我一定要慢慢吃！♡", 2: "哇啊啊啊！！！好好吃！！這個甜甜的味道好幸福喔！！……嘿嘿，我好想邊吃邊看燈籠！一定會更幸福♡", 1: "嗯嗯！還不錯呀！雖然沒有特別驚喜，可是跟你一起吃就很好吃了♡", 0: "……欸？這個味道怎麼苦苦的啦……嗚嗚嗚，我的舌頭需要一點甜甜的安慰……" },
   '108': { 3: "……你怎麼知道我喜歡這個呀？（把彎月莓果塔藏到身後）……嗯？你問我是不是想獨吞？哎呀，被發現了呢♡", 2: "……嗯？原來裡面還藏著這個味道呀。真有趣呢。……你問我喜不喜歡？……你猜呀♡（盤子已經偷偷空了）", 1: "很溫和的味道呢。雖然沒有什麼驚喜，但偶爾這樣也很好呀。", 0: "……哎呀。這個味道，還真是令人難以預料呢。（身體慢慢消失，只留下沒吃完的盤子）" },
+  '118': { 3: "這個味道……是鳳梨酥！外皮酥酥的、內餡酸酸甜甜……你怎麼知道這是我最想念的味道？我要拍照！不對，我要先吃！", 2: "好好吃！這個要記進我的島嶼美食地圖裡！", 1: "嗯～吃飽了才有力氣守望！謝謝你～", 0: "呃……這個味道，好像不是我們島上會有的……" },
   '109': { 3: "……這、這是！金穗豐收飯？！……既然是獻給本座的供品，本座自然不能浪費！……欸？還有嗎？本座只是想確認你有沒有準備足夠的份量啦！！", 2: "（耳朵突然豎起）這、這味道……！……咳！尚可！本座准許你再做一份！（她已經把整盤吃光了）", 1: "……嗯。雖然沒有什麼特別之處，但能填飽肚子也算是重要的事情。辛苦你了。", 0: "……這是何物？（耳朵慢慢垂下）……你確定這不是某種新式兵器嗎？！" },
   '110': { 3: "月見糰子！！！！是月見糰子耶！！……欸？你怎麼知道我最喜歡這個？！嘿嘿，我、我要一顆一顆慢慢吃！", 2: "哇啊啊！！好好吃！！這是給我的嗎？！真的可以全部吃掉嗎？！嘿嘿，謝謝你！！", 1: "嗯嗯！很好吃呀！我會乖乖吃完的！", 0: "……嗚。這個味道有點奇怪耶……我可以偷偷配一口甜點嗎？" },
   '111': { 3: "暖心味噌飯糰……（雙手捧著，安靜了好久）……欸？我沒有哭喔。只是今天終於有人反過來照顧我了。謝謝你♡", 2: "……哇。這個真的很好吃耶。……欸？你特地幫我準備的？嗚……謝謝你，我今天真的很需要這個。", 1: "嗯嗯，還不錯。簡單的料理也很適合忙碌的日子。", 0: "……這個味道有點奇怪耶。……等等，我是不是太累了才覺得奇怪？" },

diff --git a/js/battle.js b/js/battle.js
@@ -424,7 +424,7 @@ export function collectBattle(state, id, now = new Date(), rand = Math.random) {
   const restUntil = iso(new Date(now.getTime() + (IS_TEST ? 0 : REST_MINUTES * 60e3))); // 測試服不用休息
   for (const no of battle.nos) b.rest[no] = restUntil;
   b.total += 1; if (r.win) b.wins += 1;
-  const gains = [r.loot.badges && `徽章 +${r.loot.badges}`, r.loot.energy && `+${r.loot.energy} 能量`, r.loot.fossils && `+${r.loot.fossils} 化石`, r.loot.firstBoss && '第一次打倒 Boss：願望蛋 +1', r.loot.ingredients?.length && `食材：${ingredientText(r.loot.ingredients)}`, r.loot.starBonus && `再次三星 ⭐ +${r.loot.starBonus.fossils} 化石`, evGain?.tokens && `${EVENT_DEFS[enemy.event]?.token.icon || ''} ${EVENT_DEFS[enemy.event]?.token.name || '代幣'} +${evGain.tokens}`, evGain?.daily && `☀ 今日首勝：${EVENT_DEFS[enemy.event]?.token.name || '代幣'} +${evGain.daily}`, evGain?.keepsake && `信物「${evGain.keepsake.name}」`, evGain?.title && `五件信物收齊：稱號「${EVENT_DEFS[enemy.event]?.titles?.[evGain.title] || ''}」`, sideGain?.fossils && `+${sideGain.fossils} 化石${sideGain.first ? '（首勝）' : ''}`, r.lootHalf && '💰 經濟制裁：能量、化石減半', sideGain?.candy && `🍬 ${SERIES[sideGain.series]?.short || ''}星光糖 +${sideGain.candy}`, sideGain?.keepsake && `信物「${sideGain.keepsake.name}」`, sideGain?.title && `全線三星：稱號「${sideGain.title}」`, sideGain?.complete && `「${sideGain.lineName}」全線通關！`].filter(Boolean);
+  const gains = [r.loot.badges && `徽章 +${r.loot.badges}`, r.loot.energy && `+${r.loot.energy} 能量`, r.loot.fossils && `+${r.loot.fossils} 化石`, r.loot.firstBoss && '第一次打倒 Boss：願望蛋 +1', r.loot.ingredients?.length && `食材：${ingredientText(r.loot.ingredients)}`, r.loot.starBonus && `再次三星 ⭐ +${r.loot.starBonus.fossils} 化石`, evGain?.tokens && `${EVENT_DEFS[enemy.event]?.token.icon || ''} ${EVENT_DEFS[enemy.event]?.token.name || '代幣'} +${evGain.tokens}`, evGain?.daily && `☀ 今日首勝：${EVENT_DEFS[enemy.event]?.token.name || '代幣'} +${evGain.daily}`, evGain?.keepsake && `信物「${evGain.keepsake.name}」`, evGain?.title && `五件信物收齊：稱號「${EVENT_DEFS[enemy.event]?.titles?.[evGain.title] || ''}」`, sideGain?.fossils && `+${sideGain.fossils} 化石${sideGain.first ? '（首勝）' : ''}`, r.lootHalf && '💰 經濟制裁：能量、化石減半', sideGain?.candy && `🍬 ${SERIES[sideGain.series]?.short || ''}星光糖 +${sideGain.candy}`, sideGain?.keepsake && `信物「${sideGain.keepsake.name}」`, sideGain?.title && `全線三星：稱號「${sideGain.title}」`, sideGain?.complete && `「${sideGain.lineName}」全線通關！`, sideGain?.resident && `🥚 ${CHARACTERS[sideGain.resident]?.name || ''}的紀念蛋送到蛋架了`].filter(Boolean);
   const firstClear = r.win && st.clears === 1;
   // 異世活動：第一次通關才在戰報播「打完後」（MO-05 再接上卷結尾）；解鎖紀錄在 state.events[id].story
   const ksDef = isEvent ? EVENT_DEFS[enemy.event]?.keepsakes : null; // 拿到信物＝播那件的小劇情；收齊再接「收齊」

diff --git a/js/eggs.js b/js/eggs.js
@@ -346,6 +346,8 @@ const CHARACTER_TABLE = {
   // 此生護卿（湘 11/26 選 B、自己畫立繪）：海棠新娘小湘（117／MO-002）＋墨衣護衛・聞止水 的研究室配方雙人卡，不進任何蛋池。原稿 docs/event-001/residents/MO-012-cisheng-huqing.md
   'MO-012': { no: 'MO-012', name: '此生護卿・湘與止水', rarity: 'UR', line: '止水：「站我身後。」小湘：「不要，我要站妳旁邊！」', image: 'mo-012-cisheng-huqing', series: 'mohen', worldRole: '此生護卿', quote: '不渡厄，不換命，妳情我願。' },
   // 再接再厲小湘（原名落榜小湘，11/19 玩家許願改名）：湘研究所沒上時用暗號送給大家（考上就送 089 研究所小湘）。台詞：data/characters/academic-087-dialogue.json（皮寶暫編 087，實際 090）
+  // 島嶼守望・小湘（湘 11/27 畫）：系列支線「島嶼不歸檔」五關全通的獎勵，不進任何蛋池。文案暫稿（德寶），皮寶可改。
+  '118': { no: '118', name: '島嶼守望・小湘', rarity: 'SSR', line: '「這裡不是誰遺失的一頁。這裡是我們自己寫成的故事。」', image: 'siang-118-island-watch', series: 'county', sidePreview: true },
   '090': { no: '090', name: '再接再厲小湘', rarity: 'SR', line: "「沒關係啦……我本來就沒有很想讀……嗚嗚嗚可是我真的很想讀嘛！！」", image: 'siang-090-rejected', series: 'memorial', special: true },
   // 未完待續小湘（湘 11/19）：研究所小湘＋再接再厲小湘的隱藏配方。台詞：data/characters/recipe-088-dialogue.json（皮寶暫編 088，實際 091）
   '091': { no: '091', name: '未完待續小湘', rarity: 'SSR', line: "「考上了也好，沒考上也好……嘿嘿，我的故事又還沒寫完！」", image: 'siang-091-to-be-continued', series: 'recipe', special: true },
@@ -354,6 +356,8 @@ const CHARACTER_TABLE = {
 // 101 以後的編號是「整數樣子」的 key，JS 列舉物件時會把它們排到 001 前面，
 // 圖鑑、入住、許願對象等列表就會讓 101+ 跑到最前面。這裡讓 Object.keys／values／entries
 // 一律照編號由小到大列出，以後新增 117、118… 也不用再處理。
+// 支線還沒正式開（js/side.js SIDE_LIVE）前，sidePreview 的居民只在測試服（?test）存在，正式版圖鑑看不到。正式開支線時把 sidePreview 拿掉。
+if (!globalThis.__SIANG_TEST__) for (const [no, c] of Object.entries(CHARACTER_TABLE)) if (c.sidePreview) delete CHARACTER_TABLE[no];
 const byNo = (a, b) => (typeof a === 'string' && typeof b === 'string' ? Number(a) - Number(b) || a.localeCompare(b) : 0);
 export const CHARACTERS = new Proxy(CHARACTER_TABLE, {
   ownKeys: (t) => Reflect.ownKeys(t).sort(byNo),

diff --git a/js/side.js b/js/side.js
@@ -43,6 +43,7 @@ export const SIDE_LINES = {
     scene: 'assets/scene/side/island-harbor.webp', // 湘 11/27 畫的漁港燈塔（原檔 /mnt/project-files/side-quest/island/originals/）
     countyBonus: { per: 0.2, cap: 0.6 }, // 縣市居民每位 +20%，最多 +60%；其他居民也能上
     reward: { first: 10, firstBoss: 25, repeat: 2, repeatBoss: 4 },
+    resident: '118', // 湘 11/27 畫的 SSR 島嶼守望・小湘：五關全通（＝五件信物都拿到）送紀念蛋，不進任何蛋池
     stages: [
       { id: 'isl-1', scene: 'assets/scene/side/island-harbor.webp', label: '★', name: '正名將軍・朱筆', emoji: '🖍', power: 60, minutes: 45, skill: 'rename',
         intro: '「妳們可以存在，但只能用本將軍批准的名字存在。」',
@@ -253,11 +254,18 @@ export function recordSideRun(state, lineId, stageId, report, nos, { now = new D
   if (lineId === 'island') { const ran = new Set(ensureSide(state).countyRan); for (const no of nos) if (MAIN_COUNTY.includes(no)) ran.add(no); state.side.countyRan = [...ran]; }
   const done = line.stages.every((x) => prog.stages[x.id]?.clears);
   let complete = false;
-  if (done && !prog.doneAt) { prog.doneAt = now.toISOString(); complete = true; }
+  let resident = null;
+  if (done && !prog.doneAt) {
+    prog.doneAt = now.toISOString(); complete = true;
+    const no = line.resident; const allKs = line.stages.every((x) => !x.keepsake || prog.keepsakes[x.keepsake.id]);
+    if (no && CHARACTERS[no] && allKs && state.gifts && !state.dex?.[no] && !state.gifts.eggs?.some((g) => g.character === no)) {
+      (state.gifts.eggs ||= []).push({ egg: 'keepsake', character: no, from: `side:${lineId}`, at: now.toISOString() }); resident = no;
+    }
+  }
   // 稱號：全線三星
   let title = null;
   if (line.title && !prog.titleAt && line.stages.every((x) => (prog.stages[x.id]?.stars | 0) >= 3)) { prog.titleAt = now.toISOString(); title = line.title; }
-  return { first, fossils, keepsake, complete, lineName: line.name, candy, series: line.series, title };
+  return { first, fossils, keepsake, complete, lineName: line.name, candy, series: line.series, title, resident };
 }
 
 export const lineCleared = (state, lineId) => Boolean(state.side?.lines?.[lineId]?.doneAt);

diff --git a/js/wish-voice-late.js b/js/wish-voice-late.js
@@ -44,6 +44,7 @@ export const WISH_VOICE_LATE = {
   '106': { color: "呵呵，你願意拍一個{color}的東西給我嗎？我想收集一些溫暖的光芒。", other: "究級歐皇小湘的願望：{wish} 呵呵，對你有意義就好♡" },
   '107': { color: "欸欸！我今天不知道該幫燈籠上什麼顏色耶！你可以幫我拍一個{color}的東西嗎？我想參考看看！", other: "府城燈籠小湘的小願望：{wish} 嘿嘿，我想把它畫進下一盞燈籠裡♡" },
   '108': { color: "今天可以幫我找一個{color}的東西嗎？……嗯？為什麼？因為我想看呀，這還需要理由嗎？♡", other: "柴郡貓小湘從樹枝上探出頭：{wish} 說不定它一直都在，只是沒有人發現呀♡" },
+  '118': { color: "今天去找一樣{color}的東西拍下來吧！我要把它收進島嶼相簿裡～", other: "守望小湘幫你記下來了：{wish} 做完的話，回來跟我說今天走了哪些路！" },
   '109': { color: "今日替本座尋一件{color}的東西吧！……咳，本座只是想看看如今人間的顏色罷了！", other: "白虎小湘降下神諭：{wish} 認真做完的話，本座會替你喝采的！" },
   '110': { color: "今天可以幫我拍一個{color}的東西嗎？我想練習記住顏色！……這次一定不會記錯！", other: "禿小湘抱著布包跑來：{wish} 我、我會在旁邊幫你記下來的！" },
   '111': { color: "今天幫我找一個{color}的東西好不好？我想替工作冊換個封面！", other: "番頭新造小湘把今天的工作表遞給你：{wish} 完成以後，我幫你打勾！" },

diff --git a/js/taste-profiles.js b/js/taste-profiles.js
@@ -108,6 +108,7 @@ export const TASTES = {
   '106': { like: '果凍', dislike: '怪味', secret: ["cloud", "pudding", "star"] }, // 究級歐皇小湘（德寶依皮寶口味定位補）
   '107': { like: '濃甜', dislike: '怪味', secret: ["caramel", "moon", "pudding"] }, // 府城燈籠小湘：府城燈火豆花＝布丁粉＋焦糖糖水＋月光露（冰）
   '108': { like: '果香', dislike: '怪味', secret: ["gear", "moon", "strawberry"] }, // 柴郡貓小湘：彎月莓果塔＝齒輪餅乾（酥脆塔皮）＋月光露（彎月）＋草莓（酸甜莓果餡）
+  '118': { like: '果香', dislike: '怪味', secret: ["gear", "caramel", "strawberry"] }, // 島嶼守望・小湘：鳳梨酥＝齒輪餅乾（酥皮）＋焦糖（內餡）＋草莓（代替鳳梨的果香）
   '109': { like: '酥脆', dislike: '怪味', secret: ["caramel", "gear", "mushroom"] }, // 白虎小湘：金穗豐收飯＝焦糖（金黃）＋齒輪餅乾（烘烤穀物）＋魔法蘑菇（濃郁香氣）
   '110': { like: '濃甜', dislike: '刺激', secret: ["caramel", "cloud", "moon"] }, // 禿小湘：月見糰子＝焦糖（蜜）＋雲朵棉花糖（白白軟軟的糰子）＋月光露（賞月）
   '111': { like: '菇香', dislike: '怪味', secret: ["gear", "milk", "mushroom"] }, // 番頭新造小湘：暖心味噌飯糰＝齒輪餅乾（烤過的米香）＋牛奶（溫暖）＋魔法蘑菇（味噌般的鹹香）

diff --git a/js/app.js b/js/app.js
@@ -1359,6 +1359,7 @@ function storyText(c, entry, now = new Date()) {
     : st.from?.startsWith('recipe:') ? '兩位小湘在研究室一起調配出來的紀念蛋'
     : st.from?.startsWith('devteam:') ? '開發團隊悄悄送來的紀念蛋'
     : st.from?.startsWith('studio:') ? '頁邊茶肆悄悄送來的紀念蛋'
+    : st.from?.startsWith('side:') ? `打通「${side.SIDE_LINES[st.from.slice(5)]?.name || '支線'}」收到的紀念蛋`
     : st.from === 'taiwan' ? '走遍臺灣時收到的紀念蛋'
     : st.from === 'code' ? '湘藏在暗號裡的蛋'
     : st.from === 'letter' ? '湘夾在紙條裡的蛋'
@@ -2244,6 +2245,8 @@ function howToGet(c) {
   if (c.no === '001') return '從小湘本源蛋孵出';
   if (c.county) return `到${c.county}探索，收到縣市蛋後孵出`;
   if (c.no === TAIWAN_NO) return '集滿 19 位縣市小湘時收到紀念蛋';
+  const sideLine = Object.values(side.SIDE_LINES).find(l => l.resident === c.no);
+  if (sideLine) return `討伐「副本」的「${sideLine.name}」五關全部打贏、五件信物收齊時收到紀念蛋`;
   const ev = EVENTS.find(x => x.no === c.no);
   if (ev) return `${ev.when} 打開遊戲收到紀念蛋；${CHARACTERS[c.no].poolFrom ? `${CHARACTERS[c.no].poolFrom.slice(5).replace('-', '/')} 起普通蛋也孵得到` : ''}`;
   const h = HOLIDAYS.find(x => x.no === c.no);

diff --git a/js/extra-lines.js b/js/extra-lines.js
@@ -73,6 +73,12 @@ export const EXTRA_LINES = {
     defeat: "……哎呀。看來這次不太適合繼續待著呢。先走一步啦！……放心，我會回來接你的。",
   },
   // No.109 白虎小湘：docs/SIANG_109_WHITE_TIGER.md（湘 11/21，「哼」照湘要求大幅減少）
+  '118': {
+    hatch: "哇！是你把燈點亮的嗎？我是島嶼守望・小湘！帽子上的鳳梨是真的喔～來，跟我一起去看看我們的島吧！",
+    dispatch: "燈籠拿好、斗笠戴好！大家都在後面撐著我們，出發囉！",
+    victory: "贏了！快快快，幫我跟大家拍一張！這一頁要好好存起來！",
+    defeat: "沒關係，燈還亮著就好。我們回去吃碗熱的，明天再一起出發！",
+  },
   '109': {
     hatch: "……凡人，竟敢直視本座？本座乃西方白虎，司掌秋令與金戈之氣。……什麼？你說我的耳朵很可愛？！無、無禮！！本座可是神獸！！不准亂摸！！",
     dispatch: "退後！金戈之氣，聽吾號令！……區區敵人，也敢擋在本座面前？看好了！這才是真正的白虎之威！",

diff --git a/docs/SIANG_118_ISLAND_WATCH.md b/docs/SIANG_118_ISLAND_WATCH.md
@@ -1,0 +1,8 @@
+# No.118 島嶼守望・小湘（SSR・縣市系列）
+
+- 立繪：湘 11/27 畫（原檔 /mnt/project-files/side-quest/island/originals/siang-118-island-watch.png）
+- 取得：系列支線「島嶼不歸檔」五關全通（五件信物都拿到）送紀念蛋，不進任何蛋池。
+- 圖鑑台詞：湘的企劃稿「這裡不是誰遺失的一頁。這裡是我們自己寫成的故事。」
+- 其他文案（故事、好感、出戰、廚房、願望、遠行回報）是德寶暫稿，等皮寶改稿再換。
+- 隱藏最愛：鳳梨酥＝齒輪餅乾＋焦糖＋草莓；喜歡果香、不喜歡怪味。
+- 支線正式開之前（SIDE_LIVE=false），eggs.js 的 sidePreview 讓她只在測試服存在。
